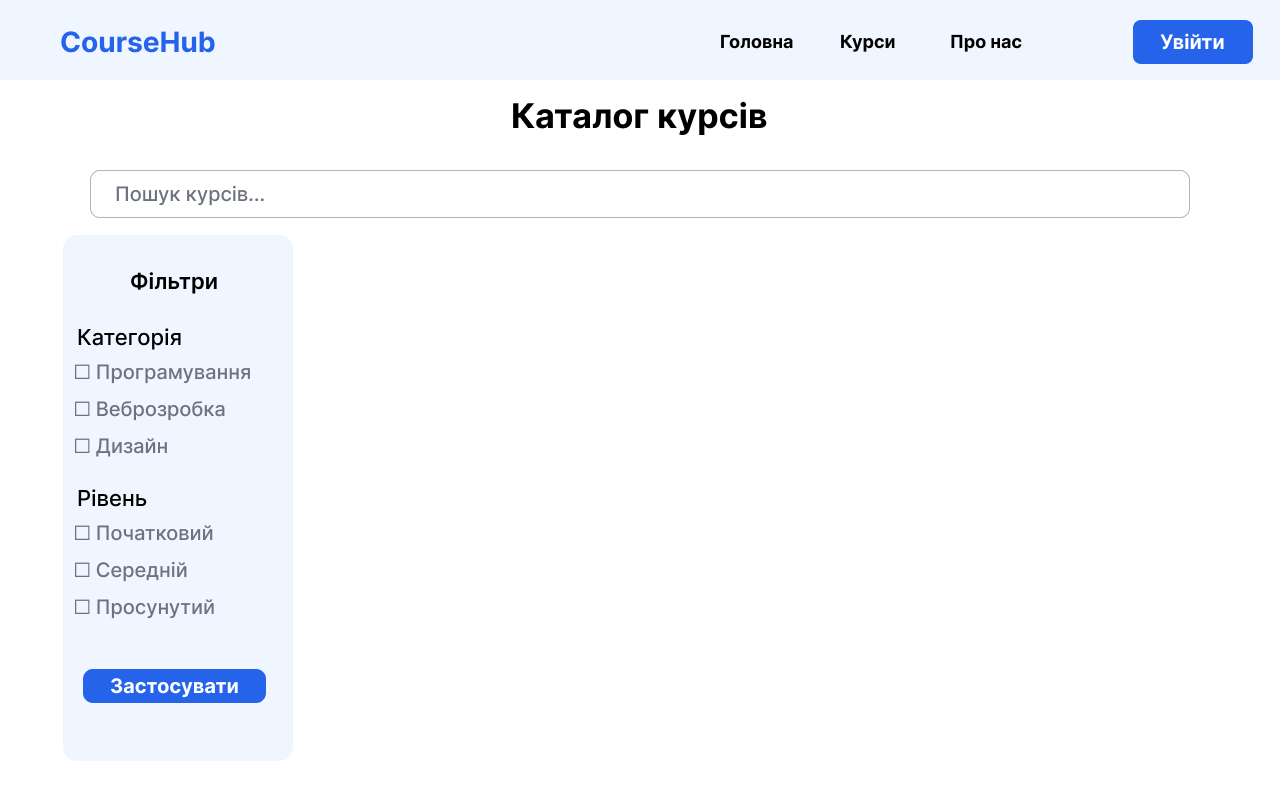
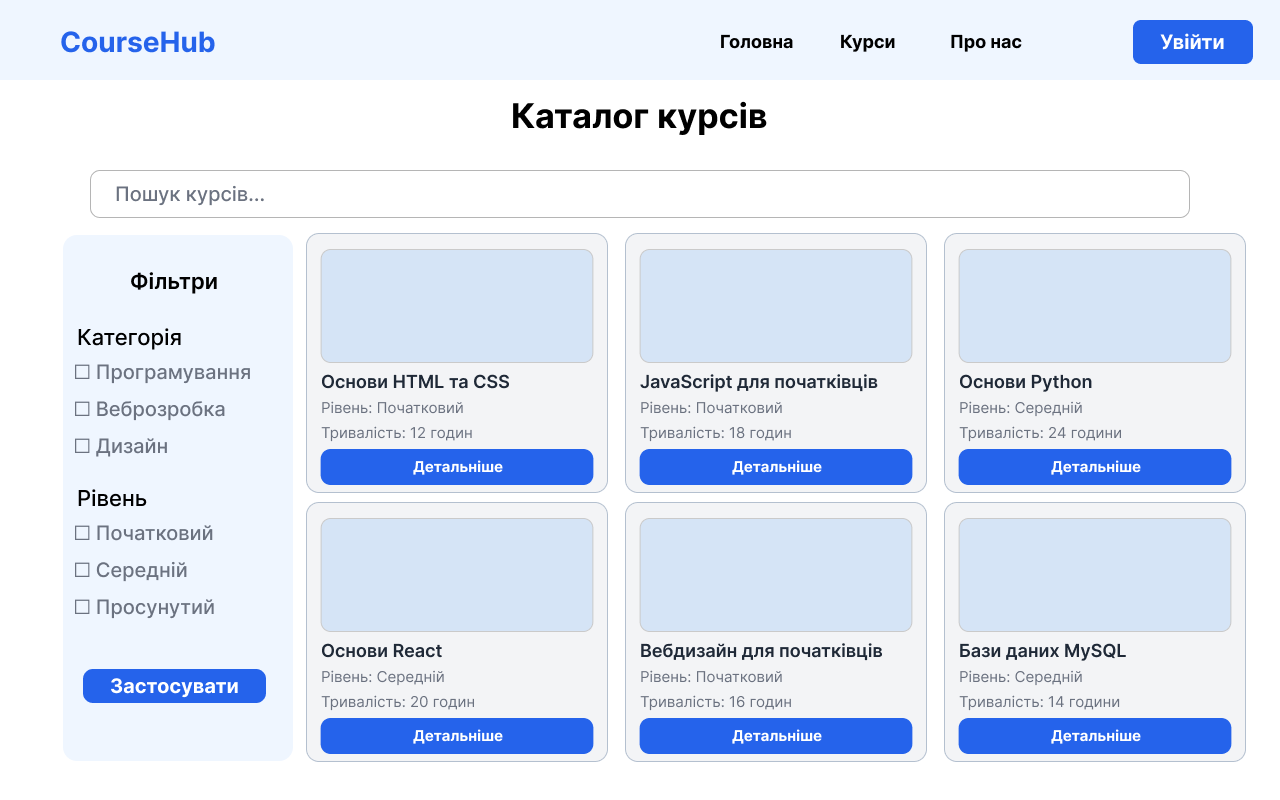
lab01: update report screenshots

Changed region(s): [[0.5, 0.3125, 0.7188, 0.9688], [0.25, 0.3125, 0.4688, 0.9688], [0.75, 0.3125, 0.9688, 0.9688]]

diff --git a/labs/lab01/report.md b/labs/lab01/report.md
@@ -199,9 +199,9 @@
 
 ### 4.4. Історія комітів та Pull Request
 
-**Посилання на історію комітів:** https://github.com/USERNAME/coursehub/commits/lab01/
+**Посилання на історію комітів:** https://github.com/lebedeveugene/coursehub/commits/lab01/
 
-**Посилання на Pull Request:** ДОДАТИ ПІСЛЯ СТВОРЕННЯ
+**Посилання на Pull Request:** https://github.com/ТВІЙ-ЛОГІН/coursehub/pull/1
 
 **Рисунок 7 — Історія комітів Git**
 
